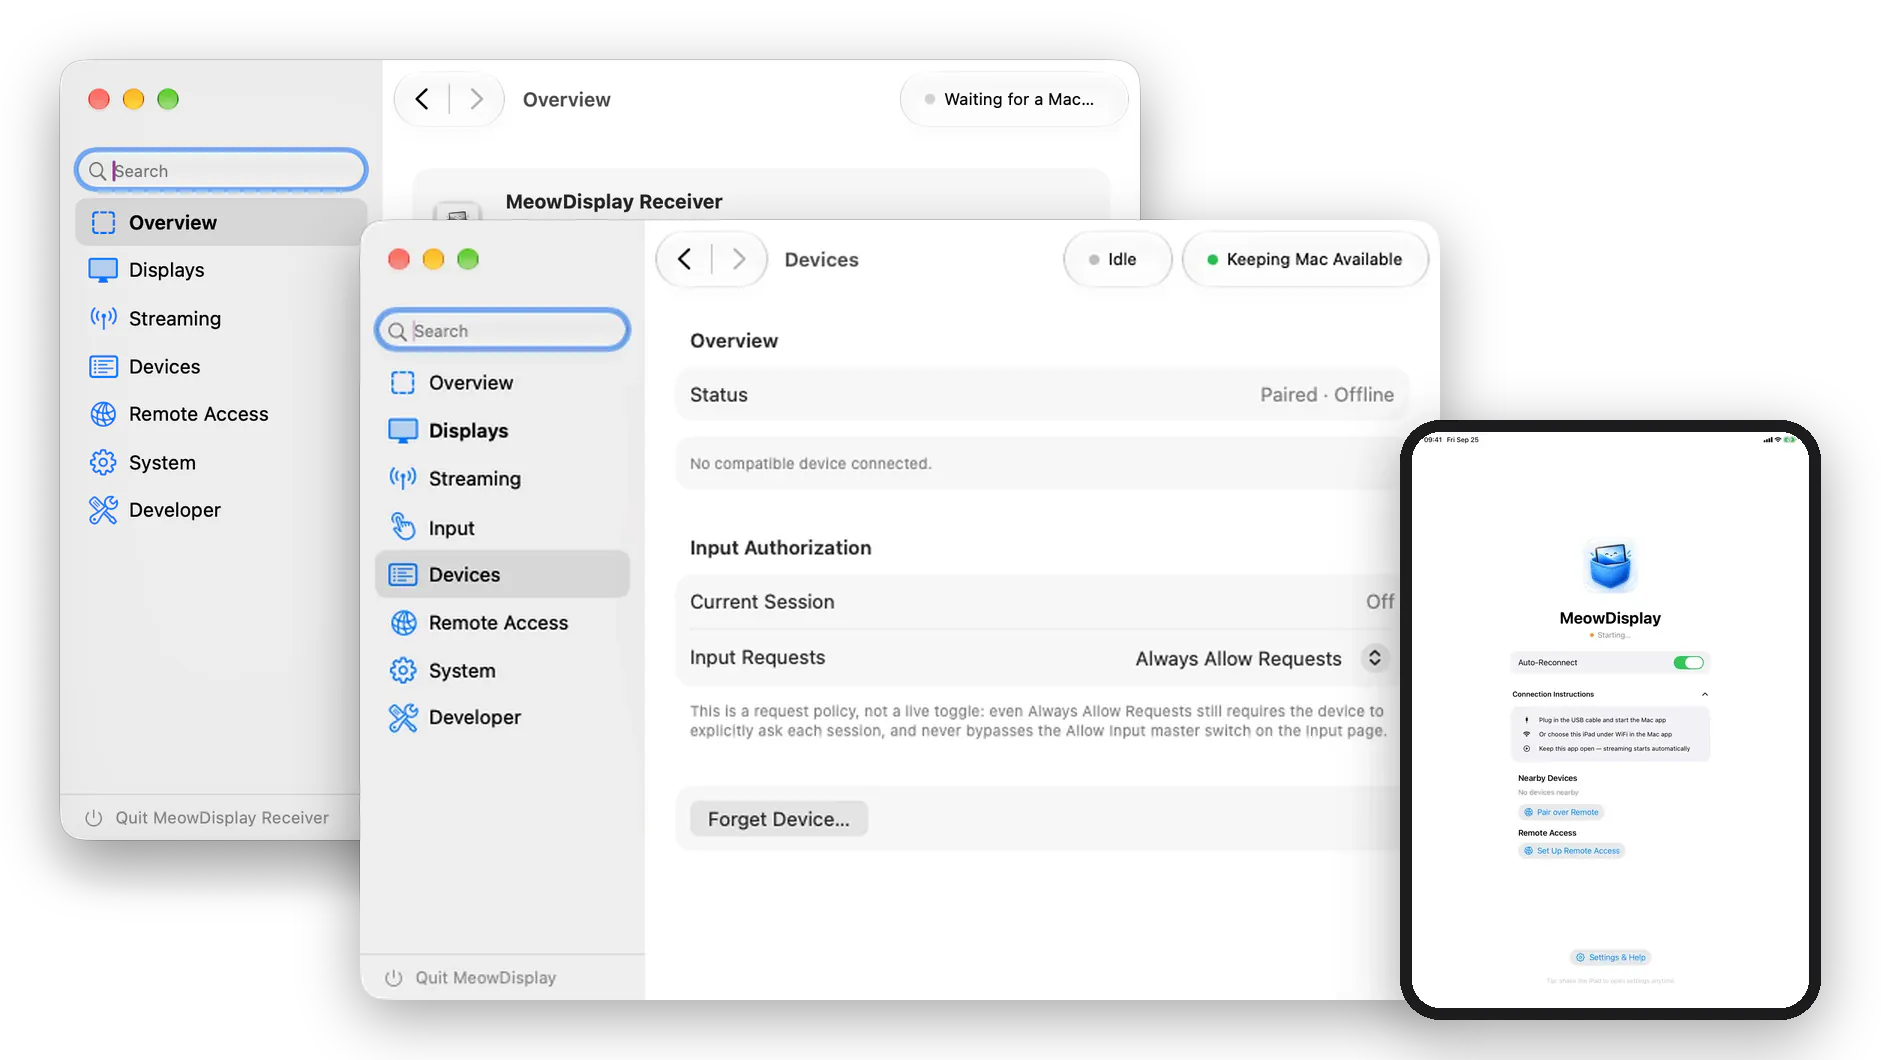
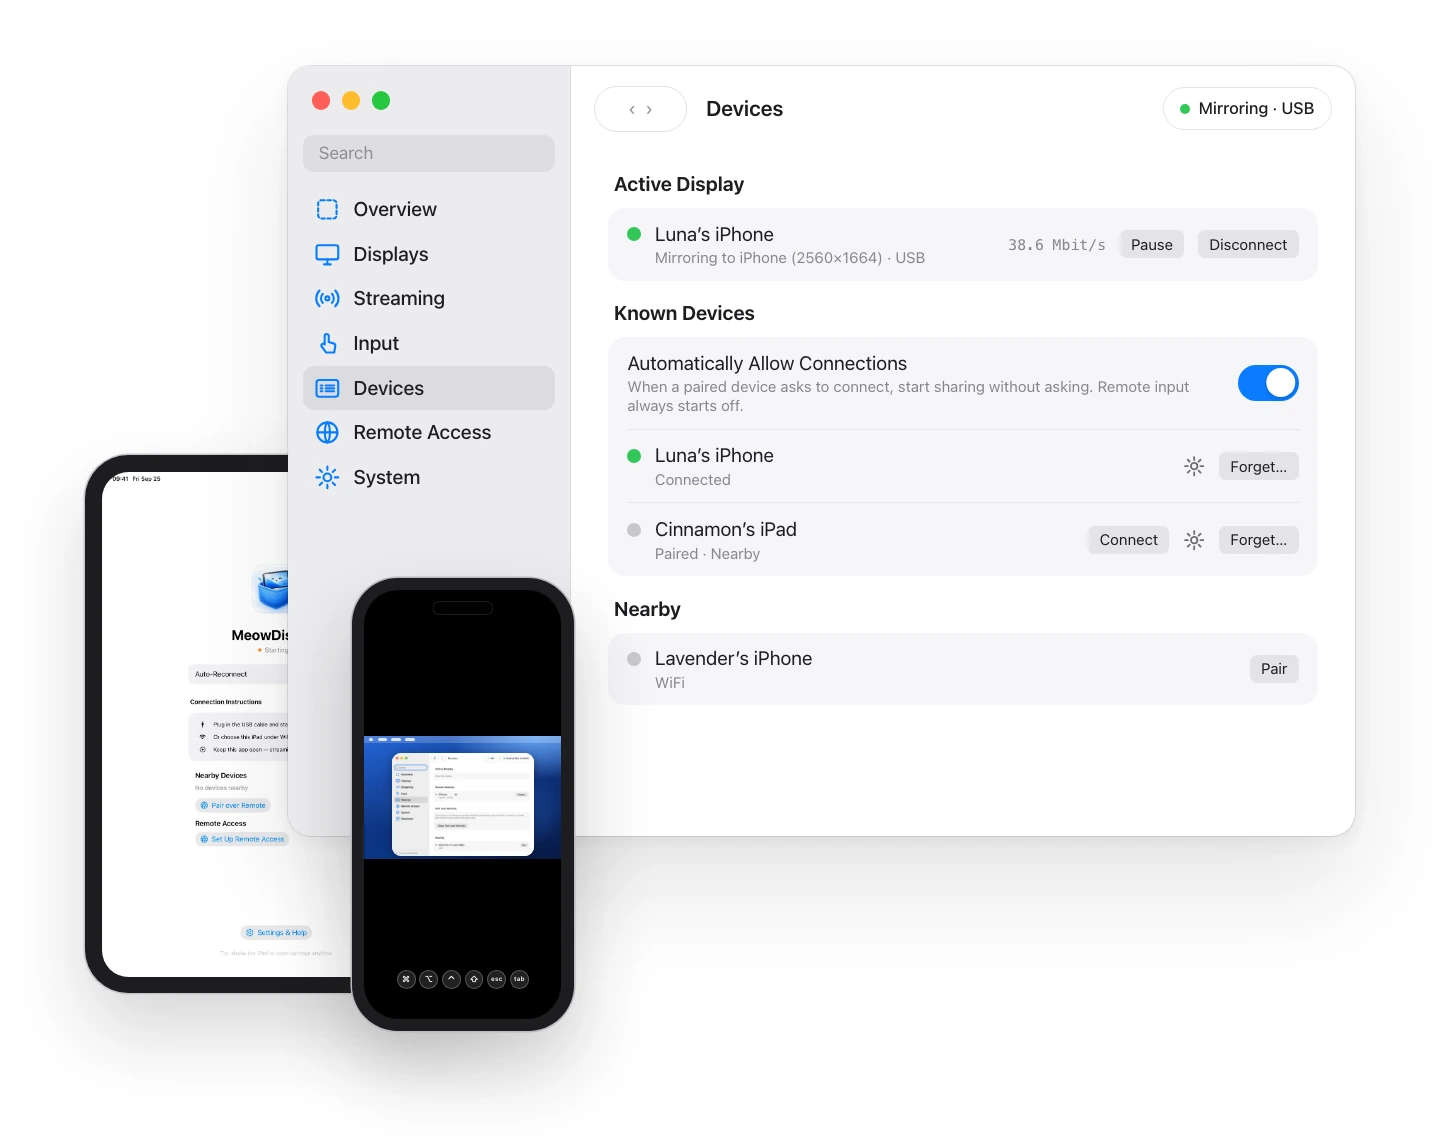
docs: sync README with current devices and control permissions

diff --git a/README.md b/README.md
@@ -32,16 +32,17 @@ you control, with devices paired and every session encrypted.
 No MeowDisplay account is required, and there is no MeowDisplay-hosted relay
 or server in the middle.
 
-<sub>Public release builds are being prepared. iPhone and iPad availability on
-the App Store is pending Apple approval. Until then, MeowDisplay can be
+<sub>Public release builds are being prepared. There is no public download or
+App Store release yet. The source is available here and can be
 [built from source](#build-from-source).</sub>
 
 ## At a glance
 
 | | |
 |---|---|
-| **Display** | Mirror an existing Mac display, choosing the source when several are connected · Extend with a virtual display · Extend shape options, including Use Full Display, where supported · clamshell and headless Macs |
-| **Control** | Direct Touch · Precise Control · Trackpad mode · Smart Touch (experimental) · keyboard · click, drag and right-click · scroll, pinch and rotate · Mac system gestures |
+| **Display** | Mirror an existing Mac display · Extend with a separate virtual workspace · clamshell and headless workflows |
+| **Control** | Direct Touch · Trackpad · Precise Control in both modes · Smart Touch (Experimental) · keyboard · Apple Pencil · Mac gestures |
+| **Devices & permissions** | Active Display · Known Devices · Nearby pairing · connection policies · Allow Input and per-session control requests |
 | **Picture in Picture** | Keep a view-only window of the live Mac on screen while you use other apps (iPhone and iPad) |
 | **Shortcuts** | Main Control Tray · Function Tray · Chords and modifier palettes · customizable actions · profiles · Auto-hide |
 | **Connections** | USB · local Wi-Fi · Remote Access · Auto-Reconnect · Wake & Connect |
@@ -60,8 +61,7 @@ That shapes where the effort goes:
 - **Interaction feel.** Touch, pointer and gesture handling are designed for
   fingers on glass, not a mouse emulated on a phone.
 - **Mirror and a real Extend.** Show a Mac display as it is, or give the Mac
-  a virtual display of its own — including with the lid closed and no
-  monitor attached.
+  a separate virtual workspace, with clamshell and headless workflows.
 - **iPhone first.** The iPhone is the main receiver, with iPad fully
   supported.
 - **Your own devices and networks.** USB, local Wi-Fi, or a private network
@@ -76,77 +76,96 @@ simply focused on this one experience.
 ## Display: Mirror & Extend
 
 <p align="center">
-<img src="assets/readme/display-modes.webp" alt="MeowDisplay Displays settings, with the Mirror and Extend modes" width="640">
+<img src="assets/readme/display-modes.webp" alt="Mirror shows the same Mac display on iPhone; Extend moves Whiskers’ Treat List onto a separate receiver workspace" width="760">
 </p>
 
-- **Mirror** shows an existing Mac display on the receiver. With more than
-  one display connected, choose which one to mirror.
-- **Extend** adds a separate virtual display to the Mac, arranged alongside
-  your other displays in macOS. Where supported, Extend shape controls tune
-  that display to the receiver, including an option to use the full display.
+- **Mirror** shows an existing Mac display on the receiver. With multiple
+  physical displays connected, choose which one to share. Mirror needs an
+  active display to copy.
+- **Extend** creates a separate software virtual display. Move windows onto
+  it and arrange it alongside your other displays in macOS. Where supported,
+  Extend shape controls include **Use Full Display**.
+
+Choose the mode on the Mac, or request a switch from the receiver's Settings;
+the Mac confirms the change. Extend also supports clamshell and headless
+workflows without a dummy display adapter. Keep a closed MacBook connected
+to power; headless compatibility is still being tested across Mac models.
 
 ## Input & gestures
 
-With **Allow Input** enabled on the Mac and Accessibility permission granted,
-the receiver becomes an input device for the Mac. Choose an input mode in the
-receiver's Settings:
+Remote control requires **Allow Input** on the Mac, Accessibility permission,
+and permission for the current session. Pausing the stream also pauses input.
+Choose an input mode in the receiver's Settings:
 
 - **Direct Touch** — a touch maps to the matching position on the Mac screen.
 - **Trackpad** — the pointer moves relatively, like a MacBook trackpad.
-  Touching doesn't jump the cursor to that spot. Sensitivity is adjustable,
-  and multi-finger gestures keep working.
+  Touching doesn't jump the cursor to that spot. **Trackpad Sensitivity** is
+  adjustable, and multi-finger gestures keep working.
+
+### Allow Input & control requests
+
+<p align="center">
+<img src="assets/readme/allow-input.webp" alt="Allow Input off on the Mac: iPhone and iPad still show the display, with only Settings reachable; control requires a session request" width="760">
+</p>
+
+**Allow Input is the Mac-wide master switch.** Receivers can stay connected
+and view the Mac while it is off. Every new logical session starts with
+input off; connecting never grants control.
+
+Use **Request Control** in the receiver's Settings. The device's **Input
+Requests** policy on the Mac decides what happens:
+
+- **Ask** prompts on the Mac.
+- **Always Allow Requests** skips the prompt, but the receiver still has to
+  ask each session. It never bypasses Allow Input.
+- **Never Allow Requests** rejects requests.
+
+Until effective input is allowed, the receiver's control tray is unavailable;
+the **Settings gear stays reachable**. The Mac can **Revoke Control** in the
+device's settings, or the receiver can **Turn Off** control. These permissions
+are separate from permission to connect.
 
 ### Precise Control
 
-Direct Touch is quick, but a fingertip covers exactly the spot you're aiming
-at, and small targets are hard to hit. Precise Control, built into Direct
-Touch, lets you fine-tune the pointer before you click:
+**Precise Control works in Direct Touch and Trackpad.** Keep one finger down
+and use another to fine-tune and click at the pointer. There's nothing to
+turn on.
 
-1. **Touch** near what you want. The pointer jumps there, as usual.
-2. **Keep that finger down and add a second finger** anywhere on the screen.
-   From that moment the pointer stops jumping to your fingers: moving either
-   finger nudges it from where it already is, following your movement on the
-   picture — finer still if you've pinched in to zoom the view.
-3. **Tap the second finger** to click at the pointer's position. Double- and
-   triple-tap for double- and triple-click; tap, then hold and move, to drag
-   from that exact spot. Tap two extra fingers together to right-click.
-4. **Lift every finger** to finish. The next touch is ordinary Direct Touch
-   again.
+- **In Direct Touch**, the first touch places the pointer at that position.
+  Keep it down for a moment, then add another finger: movement becomes
+  relative for the rest of that touch sequence. Move either finger to
+  fine-tune; the pointer never snaps back under it. Lift every finger and
+  the next Direct Touch starts normally again.
+- **In Trackpad**, movement is already relative from the first touch. Rest
+  one finger, then use another to click or drag at the existing pointer
+  location. There is no absolute-to-relative transition, and **Trackpad
+  Sensitivity** still scales pointer movement.
+- **In either mode**, tap the added finger to click, double- or triple-tap
+  for multiple clicks, or tap, then hold and move, to drag. With one finger
+  resting, tap two more fingers together to right-click.
 
-Your finger never has to sit on top of the target, and the pointer never
-snaps back under the finger that placed it. There's nothing to turn on. In
-Trackpad mode the pointer is always relative, so the same precision is
-simply the default there.
+See [Precise Control](https://meowdisplay.app/features.html#precise-control)
+for the full gesture details.
 
 ### Smart Touch
 
-**Smart Touch (Experimental)** is an optional add-on to Direct Touch, off by
-default. It uses the Mac's Accessibility information to decide what a
-one-finger drag should do:
+**Smart Touch (Experimental)** is an optional addition to Direct Touch, off
+by default. It uses the Mac's Accessibility information to recognize supported
+scrollable areas and window title bars:
 
-- **Scrollable areas** — lists, tables, documents, spreadsheets and web
-  pages scroll with one finger, with momentum: up, down, sideways and
-  diagonally. A clearly vertical or horizontal swipe stays locked to that
-  axis; a diagonal swipe moves both ways (tested on a real device in Google
-  Sheets).
-- **Window title bars** — touch and hold a standard window's title bar or
-  empty toolbar space. A soft haptic builds while you hold; after half a
-  second a short tick confirms, and the window follows your finger until
-  you lift. Moving before the tick is ordinary Direct Touch, a quick tap is
-  still a click, and window buttons, toolbar buttons and fields are never
-  treated as title bar.
-- **Touch and hold elsewhere** — holding still briefly before moving
-  switches that touch to normal Direct Touch, confirmed with a haptic.
+- Swipe a scrollable area with one finger, with momentum in either axis.
+- Hold a standard window's title bar or empty toolbar space, then drag to
+  move the window after the confirming haptic.
+- Hold still before moving in a scrollable area to use ordinary Direct Touch
+  instead. **Smart Touch Haptics** controls the hold feedback.
 
-**Smart Touch Haptics** (on by default) controls both hold haptics. It is
-silent whenever Haptics is off, and turning it off never changes the
-gestures themselves.
+It works best with standard macOS accessibility information and falls back
+to Direct Touch when it cannot identify the target. It has no effect in
+Trackpad mode. Reliability and stability are still being improved; it does
+not understand every interface. More on
+[Smart Touch](https://meowdisplay.app/features.html#smart-touch).
 
-Anywhere else, or when the Mac can't identify the interface reliably, Direct
-Touch behaves exactly as normal. Taps, tap-then-hold drags, two-finger
-scroll, pinch, rotate and system gestures are unchanged. It works best in
-apps that expose standard macOS accessibility information, and it has no
-effect in Trackpad mode.
+### Pointer & viewport gestures
 
 | Gesture | On your Mac |
 |---|---|
@@ -234,21 +253,30 @@ be turned off.
 ## Devices
 
 <p align="center">
-<img src="assets/readme/devices.webp" alt="MeowDisplay Devices settings and a paired device's settings on the Mac, beside the receiver on iPad" width="720">
+<img src="assets/readme/devices.webp" alt="Mac Devices settings with Active Display, Known Devices and Nearby, alongside the iPhone and iPad receivers" width="720">
 </p>
 
-The Mac app manages every receiver: paired and nearby devices with their
-status, per-device settings and input request controls, and **Forget
-Device**. **Allow Input** on the Mac remains the master switch for whether
-any receiver can control it.
+Pair a receiver once, then manage it in **Devices** on the Mac:
 
-Either side can start a session — Connect on the iPhone, iPad or Mac
-Receiver, or Connect (with Mirror or Extend) on the Mac — and the Mac always
-streams. Each app has **Automatically Allow Connections** (on by default) and
-a per-device Default / Always Allow / Block choice. With it off, an explicit
-Connect waits for the other side to accept; background reconnects never
-prompt. Accepting a connection never allows input: every session starts with
-input off.
+- **Active Display** shows live receiver/display sessions and connection
+  state, with **Pause** and **Disconnect**.
+- **Known Devices** includes paired receivers that are **Connected**,
+  **Paired · Nearby**, or **Paired · Offline**. When reachable, connect with
+  **Mirror** or **Extend**. Open device settings or **Forget** a pairing.
+- **Nearby** lists unpaired discoverable receivers ready to pair.
+
+**Connection permissions** decide whether a paired device can start sharing.
+**Automatically Allow Connections** is on by default. Each device can use
+**Default** (follow that switch), **Always Allow**, or **Block**. Blocking keeps
+the pairing. These choices never grant remote control.
+
+Either side can start a session, and the Mac sender always streams. When
+connection approval is required, an explicit Connect waits for acceptance;
+background reconnects never prompt.
+
+Receivers include **iPhone**, **iPad**, and the **display-only Mac Receiver**.
+The Mac Receiver does not forward its keyboard or trackpad to the other Mac.
+More on [Devices](https://meowdisplay.app/features.html#devices).
 
 ## Connections
 
@@ -279,9 +307,10 @@ On iPhone and iPad, the Mac can stay in view while you do something else.
 MeowDisplay uses the system's own Picture in Picture window, fed by the same
 stream the receiver is already showing.
 
-- **Starts on its own.** With **Picture in Picture** on (the default) and a
-  live session showing your Mac, leaving MeowDisplay moves the picture into
-  a floating window. You can also start it from the receiver's Settings.
+- **Automatic or manual.** With **Picture in Picture** on (the default), a
+  live session can enter the system floating window when you leave the app,
+  when supported and available. Receiver Settings also offers **Start Picture
+  in Picture** and **Stop Picture in Picture**.
 - **For glancing, not controlling.** The window is view-only: it shows what
   your Mac is doing, but touches in it never reach the Mac. All interaction
   stays in the full receiver.
@@ -293,7 +322,7 @@ stream the receiver is already showing.
 - **Your choice.** Turn Picture in Picture off in the receiver's Settings and
   leaving the app never starts it.
 
-Picture in Picture is new, and real-device testing is ongoing.
+Picture in Picture is new; physical-device validation is not yet complete.
 
 ## Security
 
@@ -313,8 +342,9 @@ More in [SECURITY.md](SECURITY.md) and the
 3. Connect over USB or Wi-Fi, and pair the devices by confirming the matching
    code.
 4. Choose **Mirror** or **Extend**.
-5. Grant Screen Recording, Accessibility and Local Network permissions as
-   macOS and iOS ask for them.
+5. Grant Screen Recording and Local Network permissions as requested. For
+   control, also grant Accessibility, enable **Allow Input** on the Mac, and
+   use **Request Control** in the receiver's Settings.
 
 The [Setup guide](https://meowdisplay.app/docs.html) covers permissions,
 pairing, USB & Wi-Fi, Remote Access and troubleshooting.
@@ -348,15 +378,6 @@ troubleshooting are in [SETUP.md](SETUP.md); release process in
 - [TECHNICAL_NOTES.md](TECHNICAL_NOTES.md) — virtual displays, sleep and
   wake, and other internals
 
-### iPhone Duo, maybe someday
-
-I wanted to test MeowDisplay on the iPhone Duo, so I spent hours updating
-Xcode to the latest version only to realise my base M2 MacBook Air with 8 GB
-of memory could not handle the thing.
-
-So I gave up on Duo-specific functionality for now. It would've looked so
-cool ):
-
 ## Contributing
 
 Issues and pull requests are welcome, especially testing on iPad, different
@@ -382,10 +403,10 @@ there was no good reason to rebuild a working open-source base just to say
 every layer was written from scratch. Thank you to OpenDisplay for it.
 
 Most of MeowDisplay's own work since then has gone into what happens on top
-of that foundation: input, touch and gestures, Smart Touch, Precise Control,
-the control trays, Remote Access, pairing and security, the session
-lifecycle, clamshell and headless use, audio, Picture in Picture, and a lot
-of polish.
+of that foundation: Direct Touch, Trackpad and gestures, Smart Touch,
+Precise Control, the control trays, Remote Access, pairing and security,
+the session lifecycle, clamshell and headless use, audio, Picture in Picture,
+and a lot of polish.
 
 If you only need the core second-display experience, or compatibility that
 the upstream project serves better, OpenDisplay is well worth a look.

diff --git a/SETUP.md b/SETUP.md
@@ -175,11 +175,15 @@ locally. The Mac app has no audio toggle of its own. **A/V Sync** and
 
 ### Input
 
-Touch, mouse, and keyboard input from the receiving device is routed back
-to the Mac and injected as real input events once connected, alongside
-supported gestures (two-finger scroll, pinch/rotate, and system gestures
-like Spotlight where implemented). This requires the Mac's Accessibility
-permission — see [Required permissions](#required-permissions) above.
+On iPhone and iPad, touch, pointer, keyboard and supported gestures can
+control the Mac. This requires Accessibility permission, the Mac's
+**Allow Input** master switch, and permission for the current session.
+Connecting alone never grants control: use **Request Control** in receiver
+Settings. **Always Allow Requests** skips the Mac prompt but still requires
+that request each session. See [Allow Input & control requests](README.md#allow-input--control-requests).
+
+Receivers can still view the Mac with input off. The standalone Mac Receiver
+is display-only; its keyboard and trackpad are not forwarded.
 
 ### Connecting and reconnecting
 
